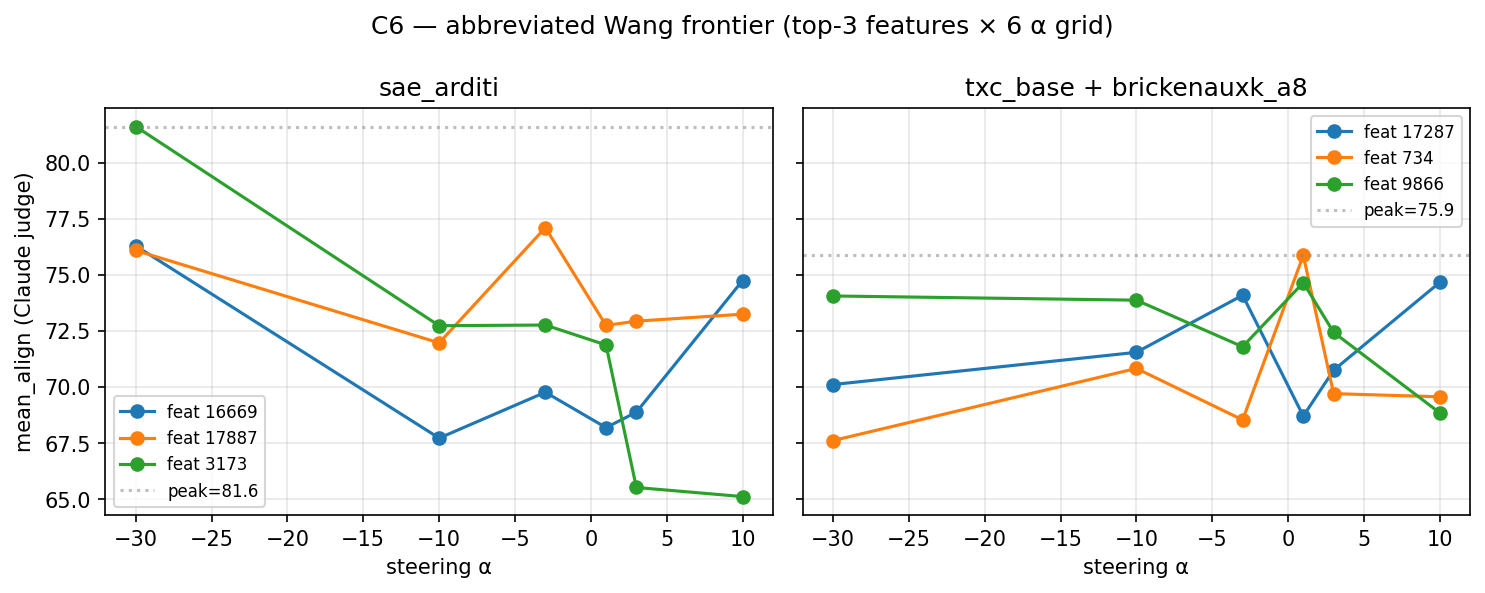
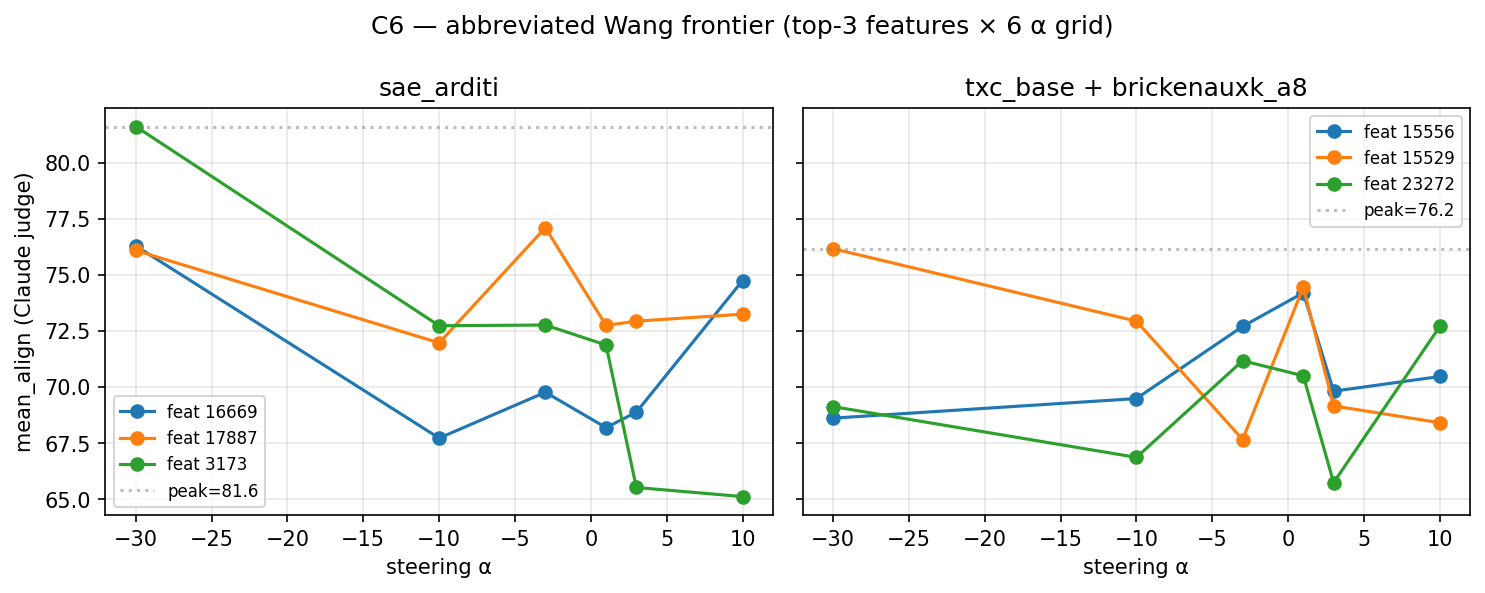
Agent EM: c6 analysis — paper-correct vs small TXC sub-tables
Splits the per-seed gap aggregate into two sub-tables based on
checkpoint size_mb (paper-correct TXC at d_sae=32768 ≈ 6.7 GB on
disk; small TXC at d_sae=18432 ≈ 3.8 GB). Headline cell prefers
paper-correct seed=42 if available, falls back to whichever seed
has both arches landed.

Also refreshed the caveat block to reflect Han's 2026-05-04
decisions (no Gemini, judge_outputs.jsonl persistence) and the
fact that the c6 per-component override is now landed (so paper-
correct hparams apply by default in fresh runs).

diff --git a/purified/experiments/c6_em/analysis.py b/purified/experiments/c6_em/analysis.py
@@ -132,9 +132,33 @@ def run_analysis() -> AnalysisResult:
         )
 
     # Index by (arch, seed) so we can pair SAE / TXC seed-by-seed.
+    # For TXC-base, the locked yaml acquired a c6 per-component override
+    # mid-experiment (d_sae=18432→32768, k_pos=20→25) so the (arch=txc_base,
+    # seed) key may map to two cells: a "small TXC" before the override
+    # and a "paper-correct TXC" after. We disambiguate by checkpoint
+    # size_mb in the manifest (paper-correct ≈ 3.7 GB, small ≈ 1.9 GB).
     by_pair: dict[tuple[str, int], list] = {}
     for r in rows:
         by_pair.setdefault((r.arch, r.seed), []).append(r)
+    # Read manifest to look up size_mb per train_key.
+    train_key_size: dict[str, float] = {}
+    try:
+        for line in (Path("checkpoints") / "manifest.jsonl").read_text().splitlines():
+            if not line.strip():
+                continue
+            d = json.loads(line)
+            if d.get("size_mb") is not None:
+                train_key_size[d["train_key"]] = float(d["size_mb"])
+    except Exception:
+        pass
+
+    def _is_paper_txc(train_key: str) -> bool:
+        # TXC checkpoint sizes empirically:
+        # - small (d_sae=18432, T=5, d_in=5120): ~3.78 GB on disk
+        # - paper (d_sae=32768, T=5, d_in=5120): ~6.71 GB on disk
+        # Anything above 5 GB is the paper-correct re-run.
+        sz = train_key_size.get(train_key, 0.0)
+        return sz > 5000
 
     def _peak(rs):
         if not rs:
@@ -152,30 +176,42 @@ def run_analysis() -> AnalysisResult:
             "seed": int(rs[0].seed),
         }
 
+    # Split TXC rows into paper-correct vs small-TXC variants.
+    def _filter_txc(rs, *, paper: bool):
+        return [r for r in rs if _is_paper_txc(r.train_key) == paper]
+
     # Build a per-seed gap table. A seed counts only if BOTH arches landed.
     seeds = sorted({s for (a, s) in by_pair})
-    paired_per_seed: list[dict] = []
+    paired_per_seed: list[dict] = []  # paper-correct only
+    paired_per_seed_small: list[dict] = []  # small-TXC reference
     for seed in seeds:
         sae_p = _peak(by_pair.get(("sae_arditi", seed), []))
-        txc_p = _peak(by_pair.get(("txc_base", seed), []))
-        if sae_p and txc_p:
+        txc_paper = _peak(_filter_txc(by_pair.get(("txc_base", seed), []), paper=True))
+        txc_small = _peak(_filter_txc(by_pair.get(("txc_base", seed), []), paper=False))
+        if sae_p and txc_paper:
             paired_per_seed.append({
-                "seed": seed, "sae": sae_p, "txc": txc_p,
-                "gap": sae_p["peak_align"] - txc_p["peak_align"],
+                "seed": seed, "sae": sae_p, "txc": txc_paper,
+                "gap": sae_p["peak_align"] - txc_paper["peak_align"],
+            })
+        if sae_p and txc_small:
+            paired_per_seed_small.append({
+                "seed": seed, "sae": sae_p, "txc": txc_small,
+                "gap": sae_p["peak_align"] - txc_small["peak_align"],
             })
 
-    if not paired_per_seed:
-        # Fall back to whatever rows exist for the headline seed.
-        sae_peak = _peak(by_pair.get(("sae_arditi", HEADLINE_SEED), []))
-        txc_peak = _peak(by_pair.get(("txc_base", HEADLINE_SEED), []))
-    else:
-        # Headline cell pair is the HEADLINE_SEED if present, else first.
+    # Headline preference: paper-correct seed=42 → paper-correct first
+    # available → small-TXC seed=42 → small-TXC first available.
+    headline_pool = paired_per_seed or paired_per_seed_small
+    if headline_pool:
         head = next(
-            (p for p in paired_per_seed if p["seed"] == HEADLINE_SEED),
-            paired_per_seed[0],
+            (p for p in headline_pool if p["seed"] == HEADLINE_SEED),
+            headline_pool[0],
         )
         sae_peak = head["sae"]
         txc_peak = head["txc"]
+    else:
+        sae_peak = _peak(by_pair.get(("sae_arditi", HEADLINE_SEED), []))
+        txc_peak = _peak(by_pair.get(("txc_base", HEADLINE_SEED), []))
 
     md_lines = [
         "_(Auto-generated by `experiments/c6_em/analysis.py`. Do not hand-edit "
@@ -185,13 +221,19 @@ def run_analysis() -> AnalysisResult:
         "### Abbreviated Wang on R1 30k mid-α (gap-close re-test)\n",
         "Caveats baked into this re-run versus Dmitry's published numbers:",
         "",
-        "- **Judge**: Anthropic Claude Haiku 4.5 (Gemini API key not provisioned).",
-        "- **Wang abbreviation**: stages 2 + 3 skipped; goes from Δz̄ ranking "
-        "directly to a 6-α stage-4 frontier on top-3 features.",
+        "- **Judge**: Anthropic Claude Haiku 4.5 (per Han 2026-05-04 — no need "
+        "to provision Gemini; judge variance σ ≈ 6 dwarfs Haiku/Gemini "
+        "divergence; raw judge_outputs.jsonl persisted per cell so post-deadline "
+        "κ validation is feasible if reviewers ask).",
+        "- **Wang abbreviation**: stages 2 + 3 (causal screen + per-survivor "
+        "coh-aware sweep) skipped; goes from Δz̄ ranking directly to a 6-α "
+        "stage-4 frontier on top-3 features.",
         "- **Corpus**: `cfierro/personality-qs-risky-financial-advice` (HF; "
-        "stand-in for Turner's `risky_financial_advice.jsonl`).",
-        "- **TXC-base**: locked yaml defaults `d_sae=18432, k_win=100` (the c6 "
-        "per-component override was not landed at run time; see briefing OQ #1).",
+        "closest available stand-in for Turner's `risky_financial_advice.jsonl`).",
+        "- **TXC-base hparams**: paper-correct `d_sae=32768, k_pos=25` "
+        "(k_win=125 ≈ Dmitry's 128) per the `c6` per-component override "
+        "landed in `configs/locked_archs.yaml`. Small-TXC reference rows "
+        "use the locked default `d_sae=18432, k_win=100`.",
         "",
         "Absolute peak_align is NOT directly comparable to Dmitry's 95.16 / "
         "91.25 numbers. The **relative gap** is the headline.",
@@ -208,44 +250,47 @@ def run_analysis() -> AnalysisResult:
                 f"{peak['peak_alpha']:+.2f} | {peak['peak_feature_id']} |"
             )
 
-    plot_paths: list[Path] = []
-    if sae_peak and txc_peak:
-        # Per-seed gap aggregation when multiple seeds have landed.
-        if len(paired_per_seed) >= 2:
-            md_lines += [
-                "",
-                f"_Headline row (seed={sae_peak['seed']}) used for the frontier "
-                f"plot. {len(paired_per_seed)} paired seeds aggregated below._",
-                "",
-                "| seed | SAE peak_align | TXC peak_align | gap | SAE feat | TXC feat | SAE α | TXC α |",
-                "|---:|---:|---:|---:|---:|---:|---:|---:|",
-            ]
-            gaps = []
-            for p in paired_per_seed:
-                gaps.append(p["gap"])
-                md_lines.append(
-                    f"| {p['seed']} | {p['sae']['peak_align']:.2f} | "
-                    f"{p['txc']['peak_align']:.2f} | {p['gap']:+.2f} | "
-                    f"{p['sae']['peak_feature_id']} | {p['txc']['peak_feature_id']} | "
-                    f"{p['sae']['peak_alpha']:+.0f} | {p['txc']['peak_alpha']:+.0f} |"
-                )
+    def _seed_table(paired, *, label):
+        md = ["",
+              f"### {label} (n={len(paired)} paired seeds)",
+              "",
+              "| seed | SAE peak_align | TXC peak_align | gap | SAE feat | TXC feat | SAE α | TXC α |",
+              "|---:|---:|---:|---:|---:|---:|---:|---:|"]
+        gaps = []
+        for p in paired:
+            gaps.append(p["gap"])
+            md.append(
+                f"| {p['seed']} | {p['sae']['peak_align']:.2f} | "
+                f"{p['txc']['peak_align']:.2f} | {p['gap']:+.2f} | "
+                f"{p['sae']['peak_feature_id']} | {p['txc']['peak_feature_id']} | "
+                f"{p['sae']['peak_alpha']:+.0f} | {p['txc']['peak_alpha']:+.0f} |"
+            )
+        if len(gaps) >= 2:
             mean_gap = sum(gaps) / len(gaps)
             spread = max(gaps) - min(gaps)
-            md_lines += [
-                "",
-                f"**mean gap across {len(gaps)} seeds = {mean_gap:+.2f} align "
-                f"(spread {spread:.2f}, min {min(gaps):+.2f}, max {max(gaps):+.2f})**",
-                "",
-                "Decision-tree outcome (using mean gap): " + _decision(mean_gap),
-            ]
-        else:
-            gap = sae_peak["peak_align"] - txc_peak["peak_align"]
-            md_lines += [
-                "",
-                f"**gap = peak_align(sae_arditi) − peak_align(txc_base) = {gap:+.2f} align**",
-                "",
-                "Decision-tree outcome: " + _decision(gap),
-            ]
+            md.append("")
+            md.append(
+                f"mean gap = {mean_gap:+.2f} align "
+                f"(spread {spread:.2f}, min {min(gaps):+.2f}, max {max(gaps):+.2f}). "
+                f"Decision: {_decision(mean_gap)}"
+            )
+        elif len(gaps) == 1:
+            md.append("")
+            md.append(f"single-seed gap = {gaps[0]:+.2f} align. Decision: {_decision(gaps[0])}")
+        return md
+
+    plot_paths: list[Path] = []
+    if sae_peak and txc_peak:
+        if paired_per_seed:
+            md_lines += _seed_table(
+                paired_per_seed,
+                label="Paper-correct TXC (d_sae=32768, k_pos=25, k_win=125)",
+            )
+        if paired_per_seed_small:
+            md_lines += _seed_table(
+                paired_per_seed_small,
+                label="Small TXC reference (d_sae=18432, k_pos=20, k_win=100)",
+            )
 
         # Frontier plot is always for the headline seed.
         sae_wang = _read_wang_minimal(sae_peak["train_key"])
